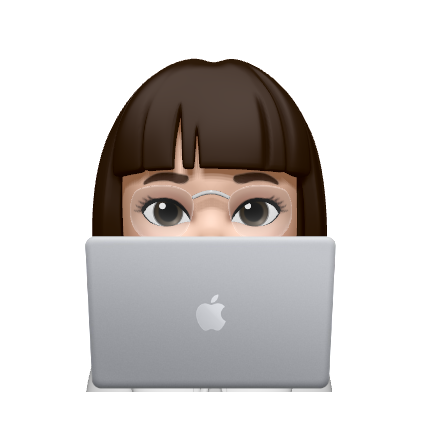
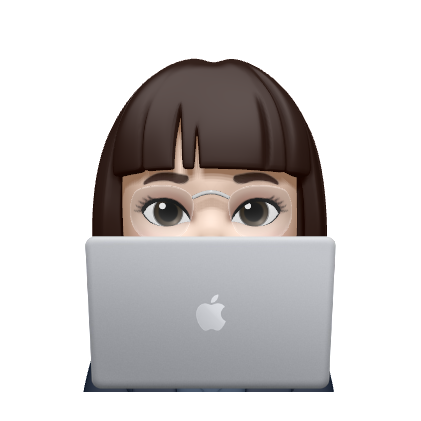
change pic and bg profile

Changed region(s): [[0.1853, 0.8646, 0.8029, 0.9572]]

diff --git a/lalita-app/src/components/Skills.js b/lalita-app/src/components/Skills.js
@@ -50,8 +50,8 @@ const Skills = () =>{
                     </div>
                 </div>
 
-                <div className="self-center justify-self-center col-span-3 pt-10 pb-5 font-bold cursor-pointer">
-                    <Tooltip content="Vue.JS, Flask, Postman" placement="bottom">
+                <div className="self-center justify-self-center col-span-3 pt-10 pb-5 font-bold cursor-pointer hover:scale-110 transition duration-100 ease-in-out">
+                    <Tooltip content="Vue.JS, Flask, Postman, Illustrator" placement="bottom">
                         .etc
                     </Tooltip>
                 </div>

diff --git a/lalita-app/src/components/ProfileDetails.js b/lalita-app/src/components/ProfileDetails.js
@@ -26,7 +26,7 @@ const ProfileDetails = () =>{
                             className="img-front mx-auto transition-all duration-500"
                         />
                         <img
-                            src="/me-heart.png"
+                            src="/me-hi.png"
                             alt="img-blur-shadow"
                             className="img-back mx-auto transition-all duration-500"
                         />

diff --git a/lalita-app/src/styles/styles.css b/lalita-app/src/styles/styles.css
@@ -69,7 +69,7 @@ code {
 .card-img {
     position: relative;
     display: inline-block;
-    background-image: url('/public/bg003.png');
+    background-image: url('/public/bg006.png');
     background-size: cover;
     background-repeat: repeat;
 }
